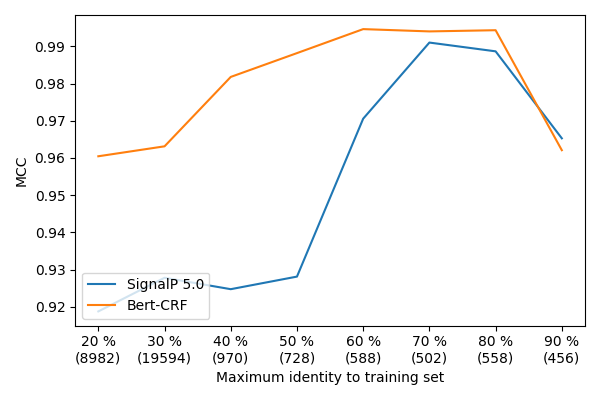
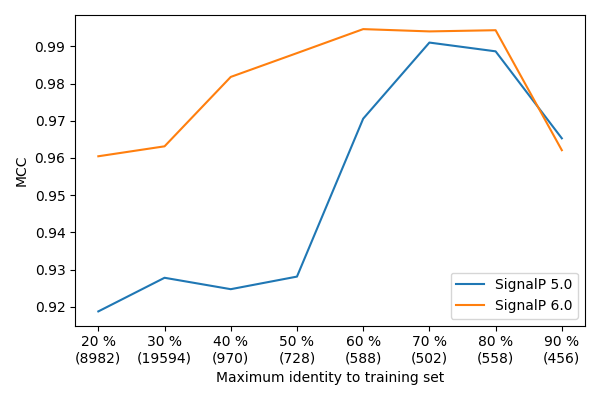
renamed remainder plot to sp6

Changed region(s): [[0.75, 0.69, 0.96, 0.81], [0.15, 0.69, 0.36, 0.78], [0.15, 0.69, 0.18, 0.72]]

diff --git a/sp_prediction_experiments/experiments_results/removed_samples/makeplots.py b/sp_prediction_experiments/experiments_results/removed_samples/makeplots.py
@@ -30,14 +30,14 @@ df = pd.read_csv('pooled_preds_sp5.csv', index_col=0)
 sp5 = df['mcc']
 counts = df['count']
 
-df = pd.DataFrame([sp5, bert],index=['SignalP 5.0', 'Bert-CRF']).T
+df = pd.DataFrame([sp5, bert],index=['SignalP 5.0', 'SignalP 6.0']).T
 
 df.index = [f'{x} %' for x in range(0,100,10)]
 df.index =  [x+ '\n' + f'({y})' for x,y in zip(df.index, counts) ]
 
 df = df.iloc[2:]
 df.plot(kind='line', figsize=(6,4))
-plt.legend(loc='lower left')
+plt.legend(loc='lower right')
 plt.ylabel('MCC')
 plt.xlabel('Maximum identity to training set')
 plt.tight_layout()
@@ -56,10 +56,10 @@ if False:
     sp5 = df.loc[df.index.str.contains('mcc2')].groupby('bin').mean().mean(axis=1)
 
 
-    df = pd.DataFrame([sp5, bert],index=['SignalP 5.0', 'Bert-CRF']).T
+    df = pd.DataFrame([sp5, bert],index=['SignalP 5.0', 'SignalP 6.0']).T
     df.index = [f'{x} %' for x in range(0,100,10)]
     df.plot(kind='bar', figsize=(6,4))
-    plt.legend(loc='lower left')
+    plt.legend(loc='lower right')
     plt.ylabel('MCC2')
     plt.xlabel('Maximum identity to training set')
     plt.tight_layout()
